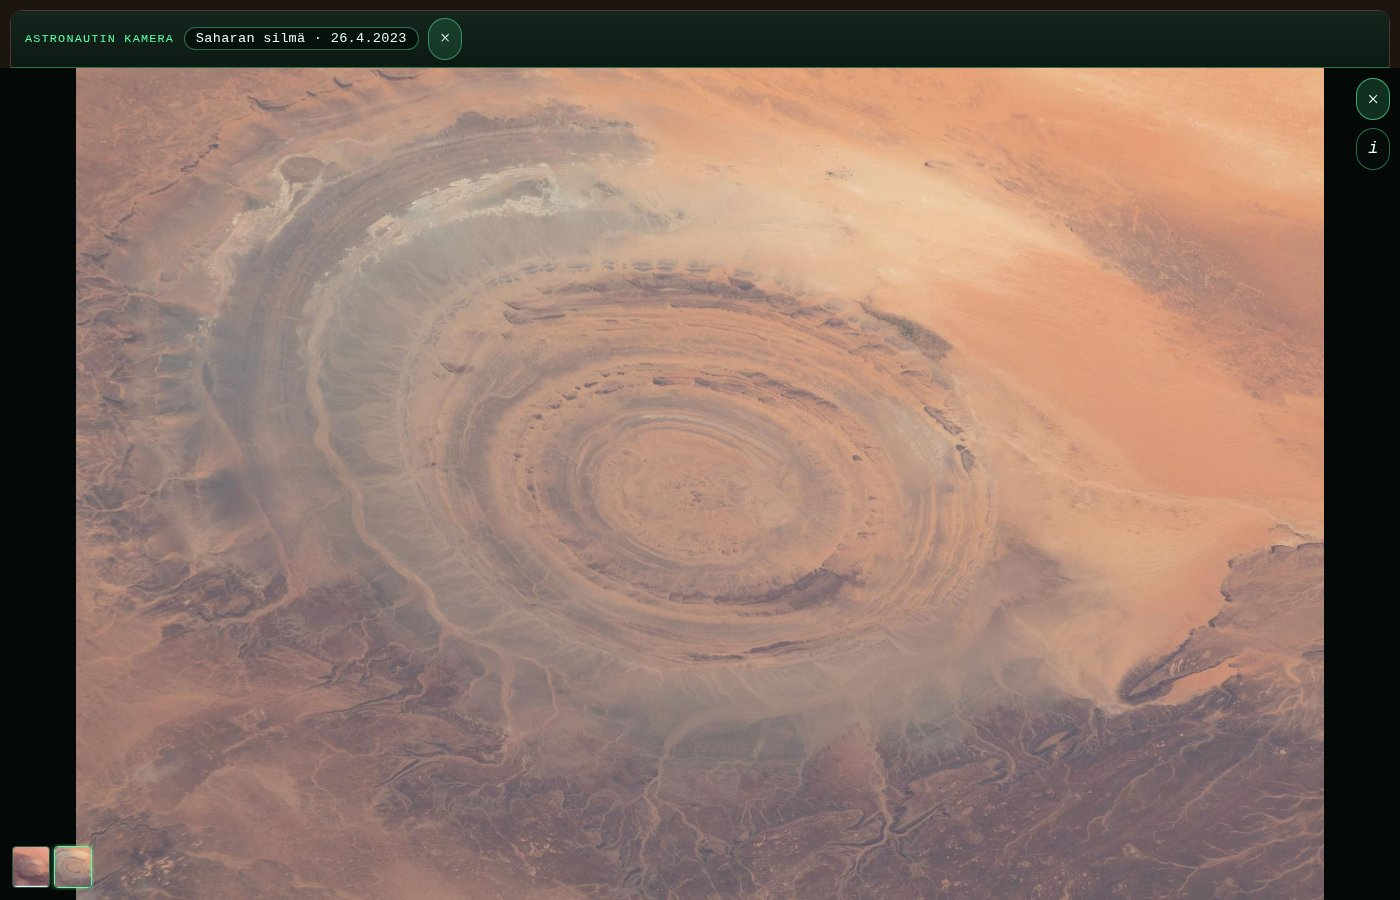
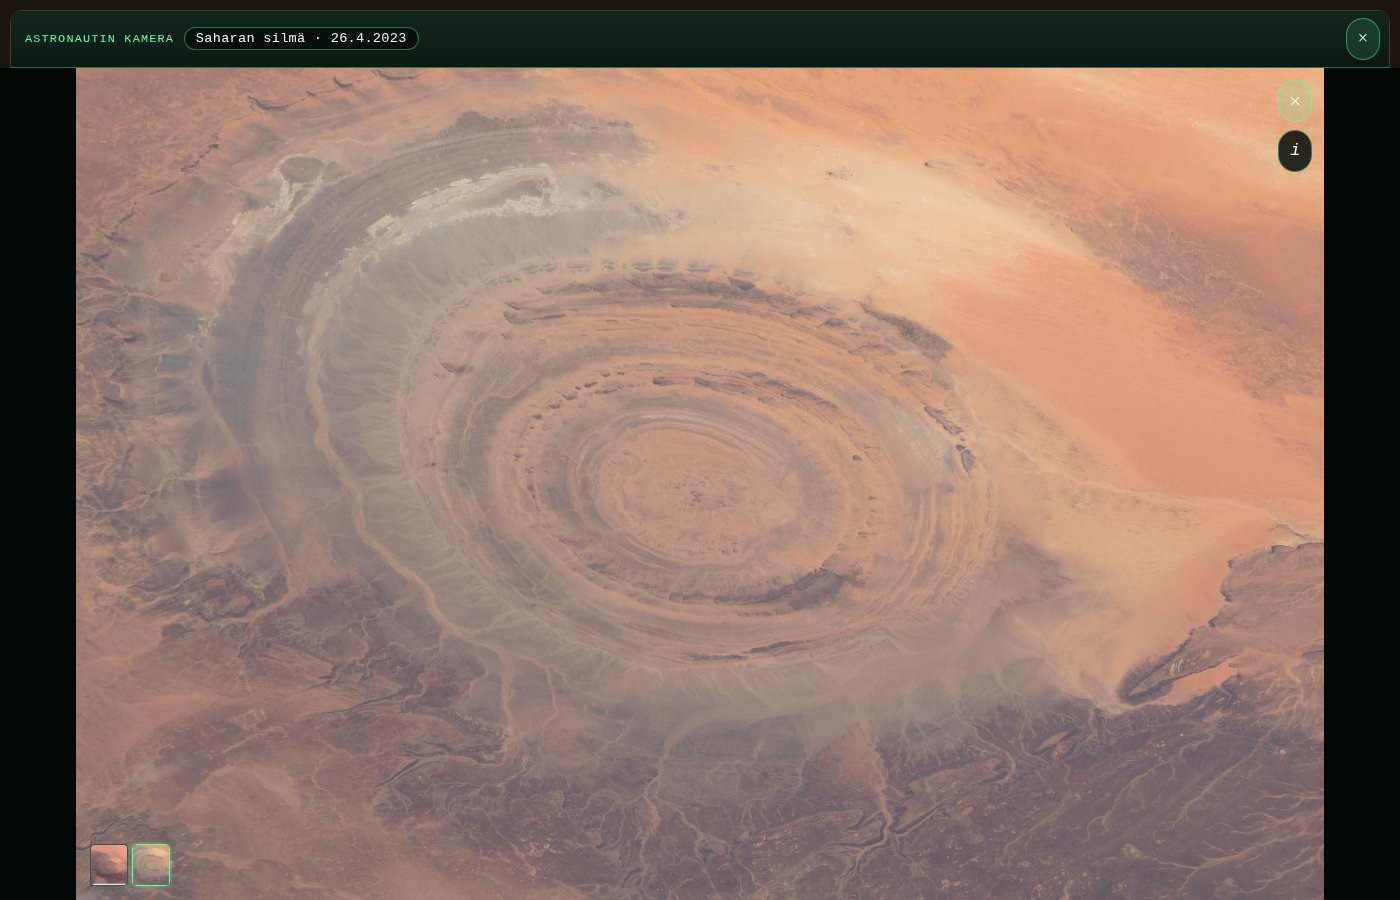
Korjaa ×-napin paikka yläpalkissa ja siirrä kulmanapit kuvan sisään
Omistajan kaappauskatselu 15.9.2026 löysi kaksi virhettä ensimmäisestä
julkaisusta:

- "Sulje linssi" -X valahti pillerin viereen vasemmalle, kun NASA-rivi
  piilotettiin (se oli ainoa flex:1-elementti joka työnsi napin
  oikeaan reunaan). margin-left: auto pitää napin oikeassa reunassa
  aina.
- ✕/i-napit ja pikkukuvat kelluivat kuvan mustassa marginaalissa lavan
  kulmassa, eivät itse kuvan päällä. Uusi asemoiKulmat() mittaa kuvan
  todellisen piirtoalueen ja kirjoittaa marginaalin CSS-muuttujiin,
  joista kulma/nauha/popup laskevat sijaintinsa 12 px kuvan reunasta.

Savukkeen vartiot tarkistavat nyt, että napit ja pikkukuvat ovat kuvan
bounding boxin sisällä. Uudet kaappaukset (1400 ja 390) korvaavat
vanhat.

Mitattu: tests/satelliitti.test.mjs 44/44, savuke-satelliittilinssi.mjs
33/33 (1400x900) ja 31/31 (390x844).

Claude-Session: https://claude.ai/code/session_01TehnTdSkC74DnzEqcXkynA

Changed region(s): [[0.8907, 0.0, 1.0, 0.1867], [0.0, 0.9333, 0.1229, 0.9956], [0.3071, 0.0, 0.3379, 0.0622]]

diff --git a/css/satelliitti.css b/css/satelliitti.css
@@ -336,6 +336,18 @@ body.aikajana-palkki-auki .topbar {
  */
 .satelliittipalkki-sulje {
   flex: 0 0 auto;
+  /*
+   * PYSYY OIKEASSA REUNASSA MYÖS KUN OHJE ON PIILOSSA (omistaja
+   * 15.9.2026, jälkikaappaus: "×:n pitää olla yläpalkin oikeassa
+   * reunassa, samassa paikassa missä 'Sulje linssi' ennen oli").
+   * Ennen tätä `.satelliittipalkki-ohje` oli AINOA flex: 1 1 auto
+   * -elementti, joka työnsi napin oikeaan reunaan; kun kuva on auki
+   * ohje piilotetaan (`[hidden]`), sen flex-tila katoaa ja nappi
+   * valahti pillerin viereen keskelle. `margin-left: auto` pitää
+   * napin oikeassa reunassa RIIPPUMATTA siitä, mitkä sisarukset ovat
+   * näkyvissä.
+   */
+  margin-left: auto;
   width: 2.1rem;
   height: 2.1rem;
   padding: 0;
@@ -459,18 +471,32 @@ body.aikajana-palkki-auki .topbar {
  * on, ja vasta sitten milloin.
  */
 /*
- * ═══ KULMA: ✕ JA i OIKEASSA YLÄKULMASSA (omistaja 15.9.2026 klo
- * 11.45 UTC, työpöytäkuva Etnasta) ═══════════════════════════════
+ * ═══ KULMA: ✕ JA i KUVAN OIKEASSA YLÄKULMASSA (omistaja 15.9.2026 klo
+ * 11.45 UTC, työpöytäkuva Etnasta; TÄSMENNYS samana päivänä
+ * jälkikaappauksesta) ═══════════════════════════════════════════
  *
  * Sanatarkasti: *"siirrat alakulman X niin kuvan oikean ylareunaan
  * pienena pyoreana X... I-nappi saisi tulla kuvan sulkemisen napin
- * alapuolelle"*. Kaksi pientä pyöreää nappia pinossa, irti reunasta;
- * kuva saa muun alan kokonaan (ei enää alapalkkia).
+ * alapuolelle"*. Kaksi pientä pyöreää nappia pinossa, KUVAN sisällä
+ * pienellä sisennyksellä — EI lavan (koko ruudun) kulmassa.
+ *
+ * KUVA EI TÄYTÄ AINA KOKO LAVAA. `.satelliitti-kuva` säilyttää oman
+ * kuvasuhteensa (max-width/height: 100%, ei object-fitiä) ja on
+ * keskitetty lavan sisällä — muun muotoisella kuvalla syntyy musta
+ * marginaali sivuille TAI ylä-/alapuolelle. Jälkikaappaus 15.9.2026
+ * paljasti, että napit olivat tässä marginaalissa eivätkä kuvan
+ * päällä, koska `right/top: 10px` mitattiin LAVASTA eikä kuvasta.
+ *
+ * KORJAUS: js/linssit/satelliitti.js `asemoiKulmat` mittaa kuvan
+ * todellisen piirtoalueen ja kirjoittaa marginaalin CSS-muuttujiin
+ * `--satelliitti-kuva-marginaali-x/-y` (asetettu `.satelliitti-
+ * katselu`-elementtiin, josta ne perityvät tänne). 12 px on kiinteä
+ * sisennys KUVAN reunasta, ei lavasta.
  */
 .satelliitti-kulma {
   position: absolute;
-  right: 10px;
-  top: 10px;
+  right: calc(var(--satelliitti-kuva-marginaali-x, 0px) + 12px);
+  top: calc(var(--satelliitti-kuva-marginaali-y, 0px) + 12px);
   z-index: 4;
   display: flex;
   flex-direction: column;
@@ -514,11 +540,15 @@ body.aikajana-palkki-auki .topbar {
  * nauhan päällä ei ole kuvan päällä, joten vaakaveto nauhassa selaa
  * otoksia ja sama veto kuvan päällä panoroi — raja on elementtiraja.
  * Yhden kuvan kohteella nauha piilotetaan kokonaan ([hidden], JS).
+ *
+ * KUVAN SISÄLLE, EI LAVAN KULMAAN (täsmennys 15.9.2026, ks. yllä
+ * .satelliitti-kulma) — samat `--satelliitti-kuva-marginaali-*`
+ * -muuttujat, 12 px sisennys kuvan reunasta.
  */
 .satelliitti-nauha {
   position: absolute;
-  left: 10px;
-  bottom: calc(10px + env(safe-area-inset-bottom, 0px));
+  left: calc(var(--satelliitti-kuva-marginaali-x, 0px) + 12px);
+  bottom: calc(var(--satelliitti-kuva-marginaali-y, 0px) + 12px + env(safe-area-inset-bottom, 0px));
   z-index: 4;
   display: flex;
   gap: 4px;
@@ -551,15 +581,16 @@ body.aikajana-palkki-auki .topbar {
 .satelliitti-pikku img { display: block; width: 100%; height: 100%; object-fit: cover; }
 
 /*
- * ── info-popup: pieni ikkuna oikeassa yläkulmassa, nappien PÄÄLLÄ
- * (omistaja 15.9.2026: *"lisatietokentta voisi avautua sitten heti
- * sulkemisnapin ja I-napin paalle sinne oikeaan ylareunaan"*) —
- * SAMASSA kulmassa kuin ✕ ja i, ei enää vasemmalla alhaalla.
+ * ── info-popup: pieni ikkuna KUVAN oikeassa yläkulmassa, nappien
+ * PÄÄLLÄ (omistaja 15.9.2026: *"lisatietokentta voisi avautua sitten
+ * heti sulkemisnapin ja I-napin paalle sinne oikeaan ylareunaan"*) —
+ * SAMASSA kulmassa kuin ✕ ja i (samat marginaalimuuttujat), ei enää
+ * vasemmalla alhaalla eikä lavan kulmassa.
  */
 .satelliitti-popup {
   position: absolute;
-  right: 10px;
-  top: 10px;
+  right: calc(var(--satelliitti-kuva-marginaali-x, 0px) + 12px);
+  top: calc(var(--satelliitti-kuva-marginaali-y, 0px) + 12px);
   z-index: 5;
   box-sizing: border-box;
   width: min(380px, calc(100vw - 24px));
@@ -615,10 +646,6 @@ body.aikajana-palkki-auki .topbar {
 }
 .satelliitti-seutu { color: rgba(223, 246, 232, 0.7); font-size: 0.85rem; }
 .satelliitti-linkki { color: var(--satelliitti-vihrea, #5dffa8); }
-
-@media (max-width: 620px) {
-  .satelliitti-popup { top: 8px; right: 8px; }
-}
 
 /*
  * ═══ VAAKANÄKYMÄ (omistaja 12.9.2026: "Korjaa vaaka näkymä"; UUSITTU

diff --git a/js/linssit/satelliitti.js b/js/linssit/satelliitti.js
@@ -513,6 +513,37 @@ function avaaHavaintokortti({ kohde, palkki, onSuljettu }) {
     katselu.style.top = `${Math.round(r.bottom)}px`;
   };
 
+  /*
+   * KULMANAPIT JA PIKKUKUVAT KUVAN SISÄLLE, EI LAVAN KULMAAN (omistaja
+   * 15.9.2026, jälkikaappaus astronautin-kamera-1400-20260915.jpg:stä:
+   * *"✕/i-napit ja pienoiskuvat ovat nyt kuvan ULKOPUOLELLA mustalla
+   * marginaalilla ... sijoita ne kuvan todellisen piirtoalueen
+   * sisäpuolelle"*).
+   *
+   * `.satelliitti-kuva` säilyttää oman kuvasuhteensa (max-width/height:
+   * 100%, ei object-fitiä) ja on keskitetty lavan sisällä — muun
+   * muotoisella kuvalla (esim. leveä 4:3 kapealla puhelimella) syntyy
+   * musta marginaali sivuille TAI ylä-/alapuolelle. `right/top: 10px`
+   * mitattuna LAVASTA osui siis marginaaliin, ei kuvaan.
+   *
+   * MITTA LUETAAN KUVAN OMASTA RECTISTÄ. Ero lavan ja kuvan reunojen
+   * välillä (symmetrinen, koska kuva on keskitetty flex-boxilla)
+   * kirjoitetaan CSS-muuttujiin `.satelliitti-katselu`-elementtiin,
+   * josta ne perivät kulma, nauha ja popup (css/satelliitti.css).
+   * Mittaus EI saa osua zoomin transformin aikaan — siksi tätä
+   * kutsutaan vain kuvan latautuessa ja ikkunan koon muuttuessa, ei
+   * jokaisella piirrolla.
+   */
+  const asemoiKulmat = () => {
+    const lr = lava.getBoundingClientRect();
+    const ir = kuva.getBoundingClientRect();
+    if (!(lr.width > 0) || !(ir.width > 0)) return;
+    const marginaaliX = Math.max(0, (lr.width - ir.width) / 2);
+    const marginaaliY = Math.max(0, (lr.height - ir.height) / 2);
+    katselu.style.setProperty('--satelliitti-kuva-marginaali-x', `${marginaaliX}px`);
+    katselu.style.setProperty('--satelliitti-kuva-marginaali-y', `${marginaaliY}px`);
+  };
+
   const havainnot = kohde.havainnot ?? [];
   let indeksi = oletusIndeksi(kohde);
   if (!havainnot[indeksi]) return null;
@@ -550,12 +581,18 @@ function avaaHavaintokortti({ kohde, palkki, onSuljettu }) {
   const nauha = html('div', 'satelliitti-nauha');
   katselu.append(lava, kulma, nauha);
   document.body.appendChild(katselu);
-  asemoiYlareuna();
+  /** Molemmat mittaukset yhdellä kutsulla: palkin alareuna JA kuvan oma alue. */
+  const paivitaAsemointi = () => { asemoiYlareuna(); asemoiKulmat(); };
+  paivitaAsemointi();
   const kokovahti = typeof ResizeObserver === 'function' && palkki?.el
-    ? new ResizeObserver(asemoiYlareuna) : null;
+    ? new ResizeObserver(paivitaAsemointi) : null;
   kokovahti?.observe(palkki.el);
-  window.addEventListener('resize', asemoiYlareuna);
-  window.addEventListener('orientationchange', asemoiYlareuna);
+  // Lavan oma koko (esim. puhelimen kääntö ilman erillistä orientationchange-
+  // tapahtumaa selaimissa, joissa se ei laukea) vaikuttaa kuvan marginaaliin.
+  const lavavahti = typeof ResizeObserver === 'function' ? new ResizeObserver(asemoiKulmat) : null;
+  lavavahti?.observe(lava);
+  window.addEventListener('resize', paivitaAsemointi);
+  window.addEventListener('orientationchange', paivitaAsemointi);
 
   /* ---- sulkeminen -------------------------------------------------- */
   let popup = null;
@@ -568,8 +605,9 @@ function avaaHavaintokortti({ kohde, palkki, onSuljettu }) {
     if (!katselu.isConnected) return;
     katselu.remove();
     kokovahti?.disconnect?.();
-    window.removeEventListener('resize', asemoiYlareuna);
-    window.removeEventListener('orientationchange', asemoiYlareuna);
+    lavavahti?.disconnect?.();
+    window.removeEventListener('resize', paivitaAsemointi);
+    window.removeEventListener('orientationchange', paivitaAsemointi);
     document.removeEventListener('keydown', nappain);
     palkki?.nimeaKohde?.(null);
     onSuljettu?.();
@@ -817,7 +855,10 @@ function avaaHavaintokortti({ kohde, palkki, onSuljettu }) {
     if (popup) { suljePopup(); avaaPopup(); }
   }
   kuva.addEventListener('error', () => katselu.classList.add('satelliitti-kuvatta'), { once: true });
-  kuva.addEventListener('load', () => piirra());
+  // Otokset ovat eri kuvasuhteissa: marginaali mitataan uudestaan joka
+  // latauksella, jotta kulmanapit pysyvät KUVAN reunassa myös
+  // otosta vaihdettaessa (ks. asemoiKulmat).
+  kuva.addEventListener('load', () => { piirra(); asemoiKulmat(); });
   nayta(indeksi);
   kuva.src = havainnot[indeksi].kuva;
   kuva.alt = kuvatiedot(kohde, havainnot[indeksi]).lyhyt;

diff --git a/docs/raportit/viesti-fable-astronautin-kamera-20260915.md b/docs/raportit/viesti-fable-astronautin-kamera-20260915.md
@@ -5,6 +5,36 @@ lisäystehtävää samassa haarassa/PR:ssä, kaikki mitattu Chromiumilla
 1400×900 ja 390×844. Tehtiin worktreessä `/home/user/wt-astro`, haara
 `claude/bold-ride-vow4ki-astronautin-kamera` (pohja `origin/main`).
 
+**JÄLKIKORJAUS 15.9.2026 (omistajan kaappauskatselu):** kaksi virhettä
+löytyi ensimmäisestä kaappauksesta ja korjattiin samaan haaraan:
+
+1. **× oli väärässä paikassa yläpalkissa** — pillerin (kohde+päivä)
+   VIERESSÄ vasemmalla, ei palkin oikeassa reunassa. Syy:
+   `.satelliittipalkki-ohje` oli AINOA `flex: 1 1 auto` -elementti, joka
+   työnsi napin oikeaan reunaan; kun se piilotettiin kuvan ajaksi
+   (`[hidden]`), sen flex-tila katosi ja nappi valahti pillerin
+   viereen. Korjaus: `.satelliittipalkki-sulje { margin-left: auto; }`
+   — pysyy oikeassa reunassa aina, riippumatta sisarusten näkyvyydestä.
+2. **✕/i-napit ja pikkukuvat olivat kuvan ULKOPUOLELLA, mustassa
+   marginaalissa** — `right/top/left/bottom: 10px` mitattiin LAVASTA
+   (koko ruudun alue), ei itse `<img>`:n piirtoalueesta. Kuva säilyttää
+   kuvasuhteensa (ei object-fitiä) ja on keskitetty lavaan, jolloin
+   muun muotoisilla kuvilla syntyy musta marginaali. Korjaus:
+   `js/linssit/satelliitti.js` uusi `asemoiKulmat()` mittaa kuvan
+   todellisen piirtoalueen lavaan nähden ja kirjoittaa marginaalin CSS-
+   muuttujiin (`--satelliitti-kuva-marginaali-x/-y` `.satelliitti-
+   katselu`-elementtiin); `.satelliitti-kulma`, `.satelliitti-nauha` ja
+   `.satelliitti-popup` laskevat sijaintinsa niistä 12 px:n sisennyksellä
+   KUVAN reunasta. Mittaus uusitaan kuvan latautuessa, ikkunan koon
+   muuttuessa ja otosta vaihdettaessa (eri kuvat eri kuvasuhteissa).
+   Savukkeen vartiot päivitetty tarkistamaan, että napit ja pikkukuvat
+   ovat KUVAN bounding boxin sisällä (ei vain lähellä ikkunan reunaa).
+   Uudet kaappaukset korvasivat vanhat: `astronautin-kamera-1400-
+   20260915.jpg` ja uusi `astronautin-kamera-390-20260915.jpg`.
+
+Mitattu uudelleen: `tests/satelliitti.test.mjs` 44/44,
+`savuke-satelliittilinssi.mjs` 33/33 (1400×900) ja 31/31 (390×844).
+
 ## Osa 1: X-nappi, NASA-rivi, Liiku-nappi piiloon (js/tyohuone-raamattu.js
 "ASTRONAUTIN KAMERA -LINSSI: TARKEMPI RELIEFI, X-NAPPI, NASA-RIVI, EI
 LIIKU-NAPPIA")
